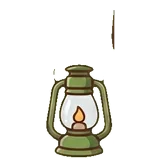
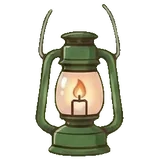
feat: lantern art; list wand, balloon and boots for new art
Claude-Session: https://claude.ai/code/session_01TMuZkMJP4hzkW6LA5qD8Qx

diff --git a/assets-src/PROMPTS.md b/assets-src/PROMPTS.md
@@ -179,7 +179,10 @@ In the attached image keep only FRONT, exactly where it is, with the same size, 
 | `acc-star-cape.jpg` | a dark blue cape with stars hanging from the shoulders behind the body, visible on both sides | done 2026-10-21 (with `acc-star-cape-front.jpg`: clasp and collar over the body) |
 | `acc-knit-vest.jpg` | a cozy green knitted vest on the body | done 2026-10-21 |
 | `acc-backpack.jpg` | a small orange backpack on the back, its straps visible over the shoulders | done 2026-10-21 (with `acc-backpack-front.jpg`: straps over the body) |
-| `acc-lantern.jpg` | a small lantern in the right hand | a stray vertical line next to it |
+| `acc-lantern.jpg` | a small lantern in the right hand | done 2026-10-21 (the wire handle has a small gap at the top) |
+| `acc-wand.jpg` | hand: ITEM = a small magic wand with a golden star on top, held in the right hand | a dark blue piece of the cape at its lower end |
+| `acc-balloon.jpg` | hand: ITEM = a red balloon on a thin string, the string held in the left hand | a small blue stray piece next to the balloon, an orange bit on the string |
+| `acc-boots.jpg` | feet: ITEM = brown boots on the feet | thin dark lines left above the boots |
 
 Fixed in code, no new picture needed: green spots in `heart-glasses` lenses (done 2026-10-21). If the pink
 sneakers still look wrong on Piko after that, add `acc-pink-sneakers.jpg` with "white
